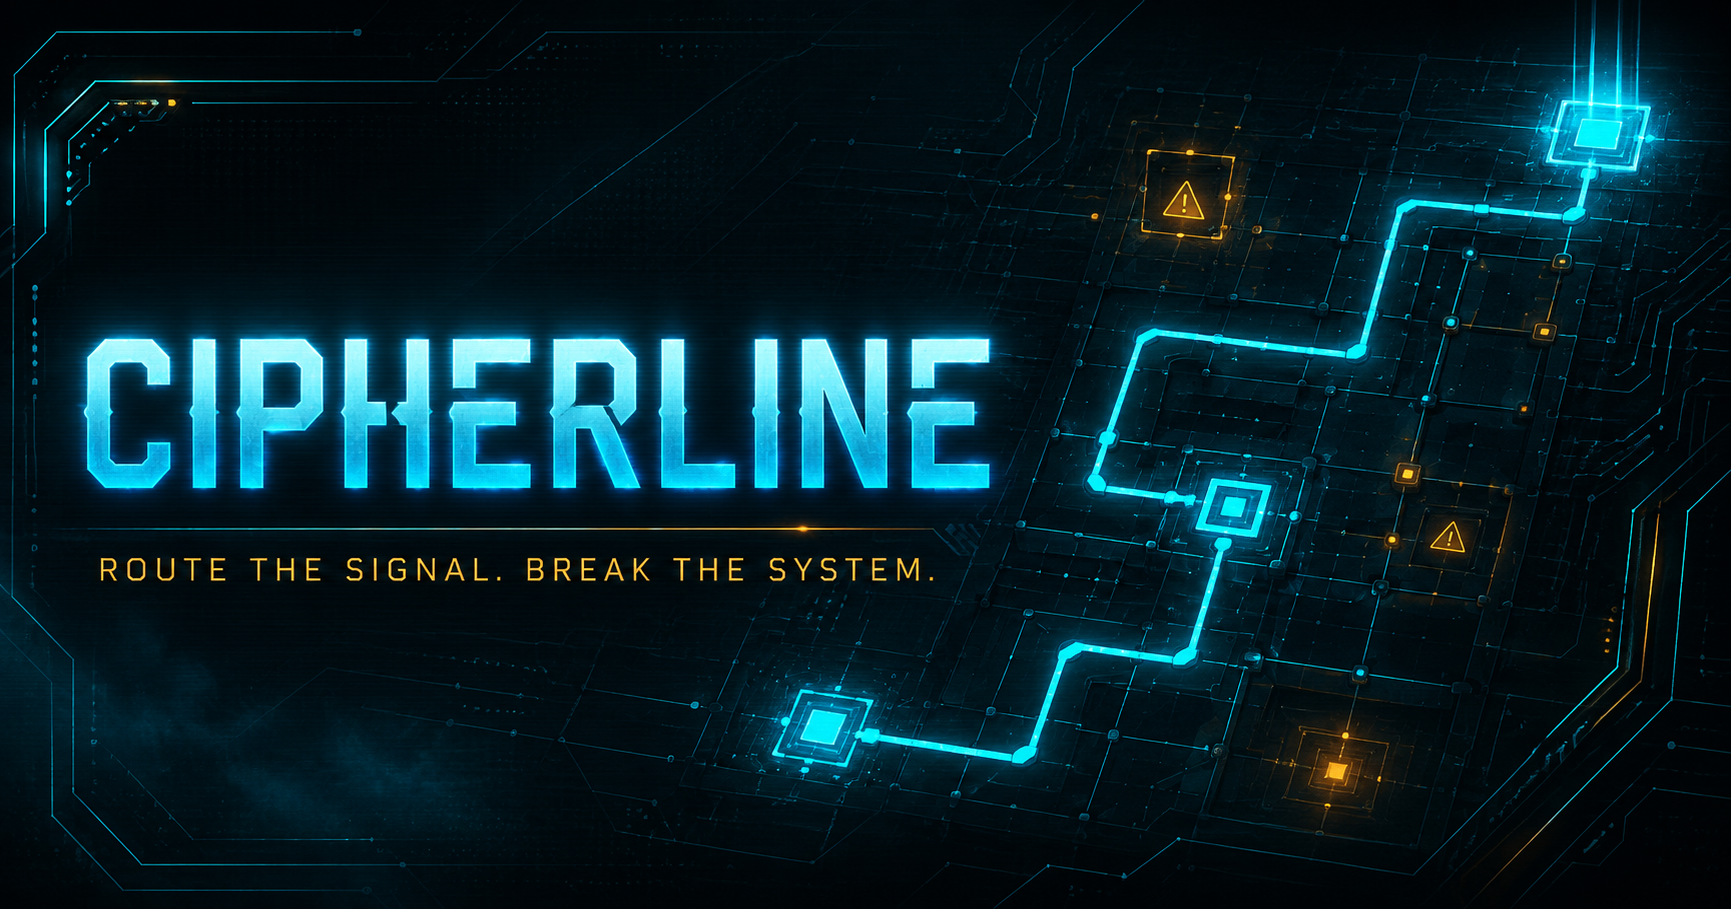
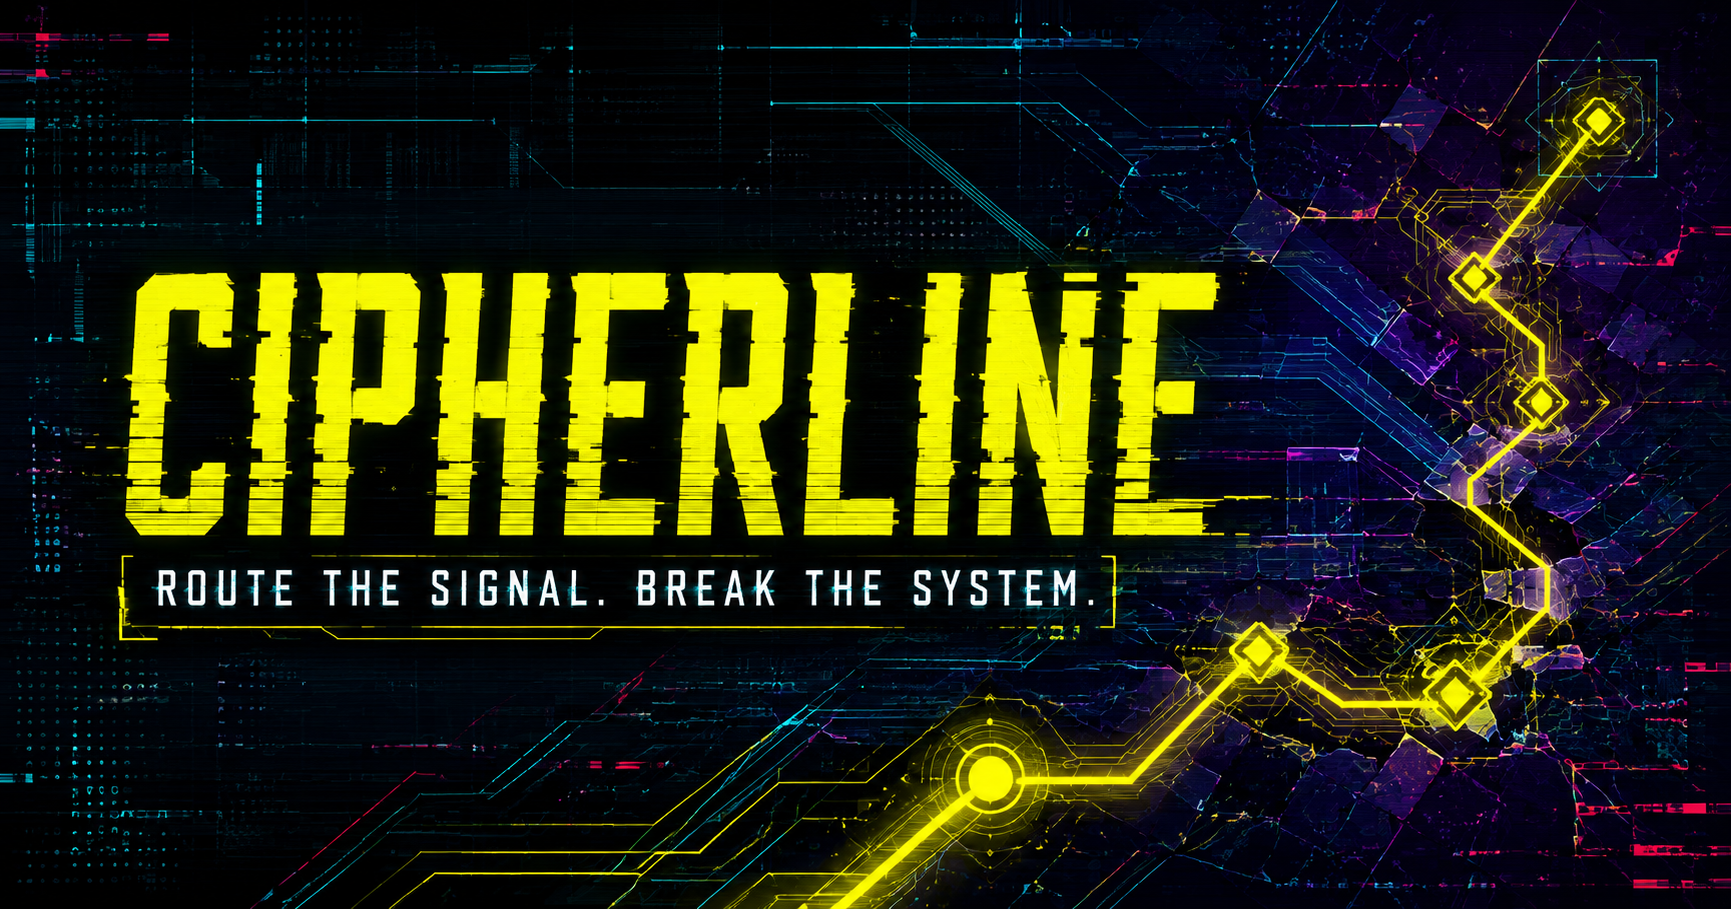
Redesign Cipherline neon palette

diff --git a/app/globals.css b/app/globals.css
@@ -1,10 +1,10 @@
 @import 'tailwindcss';
 
 :root {
-  --ink: #050d0f; --ink-2: #081416; --panel: #0a191b; --panel-2: #0d2022;
-  --line: #18383b; --line-strong: #2b5f61; --signal: #73f6e8; --signal-rgb: 115,246,232;
-  --warning: #ffc857; --danger: #ff667d; --paper: #def2ef; --muted: #749193;
-  --success: #78f6b0; --radius: 2px;
+  --ink: #070712; --ink-2: #0b0b1a; --panel: #111122; --panel-2: #17172a;
+  --line: #38334e; --line-strong: #665d7c; --signal: #fcee0a; --signal-rgb: 252,238,10;
+  --warning: #00f0ff; --danger: #ff2a6d; --paper: #f5f6e8; --muted: #9ba0b5;
+  --success: #00f0ff; --cyan: #00f0ff; --cyan-rgb: 0,240,255; --magenta: #ff2a6d; --magenta-rgb: 255,42,109; --radius: 2px;
   --background: var(--ink); --foreground: var(--paper); --primary: var(--signal); --primary-foreground: var(--ink);
   --secondary: var(--panel-2); --secondary-foreground: var(--paper); --muted-foreground: var(--muted); --input: var(--line);
   --border: var(--line); --ring: var(--signal); --popover: var(--panel); --popover-foreground: var(--paper);
@@ -14,10 +14,10 @@ html { background: var(--ink); }
 body { min-height: 100vh; margin: 0; background: var(--ink); color: var(--paper); font-family: var(--font-geist-mono), ui-monospace, monospace; }
 button { font: inherit; }
 button:focus-visible, [tabindex]:focus-visible { outline: 1px solid var(--signal); outline-offset: 3px; }
-.app-root { min-height: 100vh; color: var(--paper); background-color: var(--ink); background-image: linear-gradient(rgba(var(--signal-rgb),.025) 1px,transparent 1px),linear-gradient(90deg,rgba(var(--signal-rgb),.025) 1px,transparent 1px),radial-gradient(circle at 75% 18%,rgba(var(--signal-rgb),.055),transparent 30%); background-size: 36px 36px,36px 36px,100% 100%; padding: 0 42px 70px; position: relative; overflow-x: hidden; }
+.app-root { min-height: 100vh; color: var(--paper); background-color: var(--ink); background-image: linear-gradient(rgba(var(--signal-rgb),.024) 1px,transparent 1px),linear-gradient(90deg,rgba(var(--signal-rgb),.024) 1px,transparent 1px),radial-gradient(circle at 78% 12%,rgba(var(--cyan-rgb),.13),transparent 28%),radial-gradient(circle at 8% 88%,rgba(var(--magenta-rgb),.1),transparent 32%); background-size: 36px 36px,36px 36px,100% 100%,100% 100%; padding: 0 42px 70px; position: relative; overflow-x: hidden; }
 .app-root:before { content:""; position:fixed; inset:0; pointer-events:none; background:linear-gradient(90deg,transparent 0 4%,rgba(var(--signal-rgb),.018) 4.1% 4.2%,transparent 4.3% 95%,rgba(var(--signal-rgb),.018) 95.1% 95.2%,transparent 95.3%); z-index:20; }
-.theme-violet { --signal:#c995ff; --signal-rgb:201,149,255; --warning:#72e6ff; }
-.theme-amber { --signal:#ffca67; --signal-rgb:255,202,103; --warning:#69e8d6; }
+.theme-violet { --signal:#ff2a6d; --signal-rgb:255,42,109; --warning:#00f0ff; }
+.theme-amber { --signal:#00f0ff; --signal-rgb:0,240,255; --warning:#fcee0a; }
 .colorblind { --signal:#65b9ff; --signal-rgb:101,185,255; --warning:#ffd23f; --success:#7df19a; }
 .high-contrast { --paper:#fff; --muted:#b4cbcc; --line:#477074; --line-strong:#73a7aa; }
 .scanline { position:fixed; inset:0; pointer-events:none; z-index:50; opacity:.22; background:repeating-linear-gradient(0deg,transparent 0 3px,rgba(0,0,0,.16) 3px 4px); mix-blend-mode:multiply; }
@@ -134,3 +134,43 @@ button:focus-visible, [tabindex]:focus-visible { outline: 1px solid var(--signal
 @media(max-width:1050px){.level-grid{grid-template-columns:repeat(3,1fr)}.home-screen{grid-template-columns:1fr 1fr;padding-inline:0;gap:40px}.home-copy h1{font-size:58px}.game-head{grid-template-columns:auto 1fr auto}.game-controls{margin:0 0 12px}.workspace{grid-template-columns:minmax(0,1.2fr) minmax(300px,.8fr)}.matrix-panel,.side-panel{padding:24px}.achievement-grid{grid-template-columns:1fr}}
 @media(max-width:780px){.app-root{padding:0 16px 92px}.topbar{height:64px;grid-template-columns:1fr auto}.desktop-nav{display:none}.score-chip{border:0}.home-screen{display:block;padding:55px 0 80px}.home-copy h1{font-size:clamp(44px,13vw,67px)}.home-visual{margin-top:55px}.home-footer{position:static;margin-top:44px;display:grid;gap:8px}.mobile-nav{position:fixed;display:grid;grid-template-columns:repeat(4,1fr);left:0;right:0;bottom:0;z-index:60;background:rgba(5,13,15,.96);backdrop-filter:blur(12px);border-top:1px solid var(--line);padding:8px 6px max(8px,env(safe-area-inset-bottom))}.mobile-nav button{display:flex;flex-direction:column;align-items:center;gap:4px;background:none;border:0;color:var(--muted);font-size:7px;letter-spacing:.08em}.mobile-nav svg{width:17px}.content-screen{padding-top:35px}.section-heading{margin-bottom:25px}.level-grid{grid-template-columns:repeat(2,1fr)}.game-view{padding-top:22px}.game-head{grid-template-columns:1fr auto;align-items:end}.game-head .back-button{grid-column:1/-1}.game-head h1{font-size:34px}.game-controls{justify-content:flex-start;overflow-x:auto}.workspace{grid-template-columns:1fr}.matrix-panel{border-right:0;border-bottom:1px solid var(--line)}.cell{aspect-ratio:1;font-size:16px}.side-panel{padding-top:27px}.tutorial-strip{grid-template-columns:auto 1fr}.tutorial-strip>span{display:none}.buffer i{font-size:8px}.guide-layout,.settings-layout{grid-template-columns:1fr}.stats-grid{grid-template-columns:repeat(2,1fr)}.record-strip>span{display:none}.modal{padding:34px 22px}.result-row{gap:4px}.achievement-toast{left:16px;right:16px;bottom:78px}.home-actions{display:grid}.primary-cta,.secondary-cta{width:100%}}
 @media(max-width:440px){.level-grid{grid-template-columns:1fr 1fr}.level-card{min-height:122px;padding:13px}.stats-grid{grid-template-columns:1fr}.home-visual{padding:20px}.demo-grid{gap:5px}.demo-grid span{aspect-ratio:1}.top-actions .score-chip{font-size:9px}.target{padding:12px}.sequence-codes b{min-width:30px;height:30px}.matrix-panel,.side-panel{padding:18px}.app-root{padding-inline:12px}}
+
+/* Yellow / cyan / magenta neon-noir interface */
+.app-root:before { background:linear-gradient(90deg,transparent 0 4%,rgba(var(--signal-rgb),.035) 4.1% 4.25%,transparent 4.35% 95%,rgba(var(--cyan-rgb),.03) 95.1% 95.25%,transparent 95.35%),linear-gradient(115deg,transparent 0 68%,rgba(var(--magenta-rgb),.028) 68.1% 68.3%,transparent 68.4%); }
+.colorblind { --cyan:#65b9ff; --cyan-rgb:101,185,255; --magenta:#ff8a3d; --magenta-rgb:255,138,61; }
+.scanline { opacity:.27; background:repeating-linear-gradient(0deg,transparent 0 3px,rgba(0,0,0,.19) 3px 4px); }
+.topbar:after { content:""; position:absolute; left:0; bottom:-2px; width:108px; height:3px; background:linear-gradient(90deg,var(--signal) 0 70%,transparent 70% 74%,var(--magenta) 74% 88%,transparent 88%); box-shadow:0 0 16px rgba(var(--signal-rgb),.28); }
+.brand-mark { font-weight:950; box-shadow:4px 4px 0 var(--magenta),0 0 22px rgba(var(--signal-rgb),.22); }
+.score-chip { color:var(--cyan); text-shadow:0 0 12px rgba(var(--cyan-rgb),.35); }
+.live-dot { border-radius:0; transform:rotate(45deg); background:var(--cyan); box-shadow:0 0 10px var(--cyan); }
+.home-copy h1 em { text-shadow:3px 3px 0 rgba(var(--magenta-rgb),.7),-2px -1px 0 rgba(var(--cyan-rgb),.35),0 0 35px rgba(var(--signal-rgb),.13); }
+.lede { color:#b1b0c2; }
+.secondary-cta { background:rgba(17,17,34,.78) !important; }
+.home-visual { border-left:3px solid var(--signal); background:linear-gradient(135deg,rgba(var(--signal-rgb),.065),rgba(17,17,34,.96) 48%,rgba(var(--cyan-rgb),.045)); box-shadow:12px 12px 0 rgba(var(--magenta-rgb),.07),0 35px 90px rgba(0,0,0,.42); }
+.demo-grid span { color:#625e79; }
+.demo-grid span.route:nth-child(8) { border-color:var(--cyan); color:var(--cyan); background:rgba(var(--cyan-rgb),.07); }
+.demo-grid span.route:nth-child(10) { border-color:var(--magenta); color:var(--magenta); background:rgba(var(--magenta-rgb),.07); }
+.signal-line { background:#29243a; }
+.level-card { background:rgba(17,17,34,.82); }
+.level-card.locked { color:#625e79; }
+.level-card.locked:hover { background:rgba(17,17,34,.82); }
+.shards i { background:#262339; border-color:#4d4762; }
+.shards i.earned { background:var(--cyan); border-color:var(--cyan); box-shadow:0 0 9px rgba(var(--cyan-rgb),.35); }
+.workspace { border-top:3px solid var(--signal); background:rgba(7,7,18,.91); box-shadow:10px 10px 0 rgba(var(--magenta-rgb),.055),0 28px 90px rgba(0,0,0,.42); position:relative; }
+.workspace:before { content:"NETWORK ACCESS // LIVE"; position:absolute; right:18px; top:-17px; padding:3px 8px; background:var(--signal); color:var(--ink); font-size:7px; font-weight:800; letter-spacing:.12em; }
+.side-panel { background:linear-gradient(145deg,rgba(23,23,42,.94),rgba(10,10,25,.93)); }
+.cell { border-color:#302d48; background:linear-gradient(135deg,#151529,#0c0c1c); color:#69657e; }
+.cell.valid { background:linear-gradient(135deg,rgba(var(--signal-rgb),.09),var(--panel)); }
+.cell.focused:before { content:""; position:absolute; left:0; top:0; width:22px; height:3px; background:var(--cyan); box-shadow:0 0 9px var(--cyan); }
+.target>span { color:var(--cyan); }
+.target.complete { background:rgba(var(--cyan-rgb),.055); }
+.sequence-codes b.done { border-color:rgba(var(--cyan-rgb),.38); }
+.modal-backdrop { background:rgba(4,3,14,.82); }
+.modal { border-top:3px solid var(--signal); box-shadow:7px 7px 0 rgba(var(--magenta-rgb),.13),0 30px 100px #000; }
+.result-modal.partial .modal-icon { color:var(--cyan); border-color:var(--cyan); }
+.achievement-card,.stats-grid article,.guide-steps article,.keys-panel,.theme-panel,.setting-list { background-color:rgba(17,17,34,.72); }
+.achievement-toast { border-color:var(--signal); border-left:5px solid var(--magenta); color:var(--cyan); box-shadow:6px 6px 0 rgba(var(--magenta-rgb),.14),0 16px 50px #000; }
+.theme-panel>button i { background:#fcee0a; box-shadow:0 0 12px rgba(252,238,10,.24); }
+.theme-panel>button.violet i { background:#ff2a6d; }
+.theme-panel>button.amber i { background:#00f0ff; }
+@media(max-width:780px){.mobile-nav{background:rgba(7,7,18,.96)}}

diff --git a/app/page.tsx b/app/page.tsx
@@ -281,7 +281,7 @@ function SettingsScreen({ save, setSave }: { save: SaveData; setSave: React.Disp
     ['sound','Interface audio','Navigation, selection, success, and warning tones.',Volume2], ['reducedMotion','Reduced motion','Disable sweeps, pulses, and transition movement.',Sparkles], ['highContrast','High contrast','Increase text, tile, and border contrast.',Eye], ['colorblind','Alternate palette','Use blue and gold status colors with shape cues.',Target], ['untimed','Untimed mode','Freeze the breach clock. Speed rankings are disabled.',Clock3],
   ];
   const totalShards = Object.values(save.levelShards).reduce((sum, value) => sum + value, 0);
-  return <section className="content-screen settings-screen"><div className="section-heading"><div><p className="eyebrow">SYSTEM // PREFERENCES</p><h1>Settings</h1></div></div><div className="settings-layout"><div className="setting-list">{options.map(([key,title,text,Icon]) => <label key={key}><span className="setting-icon"><Icon /></span><div><strong>{title}</strong><small>{text}</small></div><Switch checked={save.settings[key]} onCheckedChange={(checked) => update(key, checked)} aria-label={title} /></label>)}</div><aside className="theme-panel"><p className="panel-label"><span>INTERFACE THEME</span></p>{(['cyan','violet','amber'] as const).map((theme, index) => { const cost = [0,20,45][index]; const locked = totalShards < cost; return <button disabled={locked} onClick={() => update('theme',theme)} className={`${theme} ${save.settings.theme === theme ? 'selected' : ''}`} key={theme}><i /><span><strong>{theme === 'cyan' ? 'Polar Cyan' : theme === 'violet' ? 'Ultraviolet' : 'Solar Amber'}</strong><small>{locked ? `${cost} SHARDS REQUIRED` : save.settings.theme === theme ? 'ACTIVE' : 'AVAILABLE'}</small></span>{locked ? <LockKeyhole /> : save.settings.theme === theme ? <Check /> : null}</button>; })}<p>Earn signal shards from campaign nodes to unlock cosmetic interface frequencies.</p></aside></div></section>;
+  return <section className="content-screen settings-screen"><div className="section-heading"><div><p className="eyebrow">SYSTEM // PREFERENCES</p><h1>Settings</h1></div></div><div className="settings-layout"><div className="setting-list">{options.map(([key,title,text,Icon]) => <label key={key}><span className="setting-icon"><Icon /></span><div><strong>{title}</strong><small>{text}</small></div><Switch checked={save.settings[key]} onCheckedChange={(checked) => update(key, checked)} aria-label={title} /></label>)}</div><aside className="theme-panel"><p className="panel-label"><span>INTERFACE THEME</span></p>{(['cyan','violet','amber'] as const).map((theme, index) => { const cost = [0,20,45][index]; const locked = totalShards < cost; return <button disabled={locked} onClick={() => update('theme',theme)} className={`${theme} ${save.settings.theme === theme ? 'selected' : ''}`} key={theme}><i /><span><strong>{theme === 'cyan' ? 'Chrome Yellow' : theme === 'violet' ? 'Overdrive Magenta' : 'Netrunner Cyan'}</strong><small>{locked ? `${cost} SHARDS REQUIRED` : save.settings.theme === theme ? 'ACTIVE' : 'AVAILABLE'}</small></span>{locked ? <LockKeyhole /> : save.settings.theme === theme ? <Check /> : null}</button>; })}<p>Earn signal shards from campaign nodes to unlock cosmetic interface frequencies.</p></aside></div></section>;
 }
 
 export default function HomePage() {
